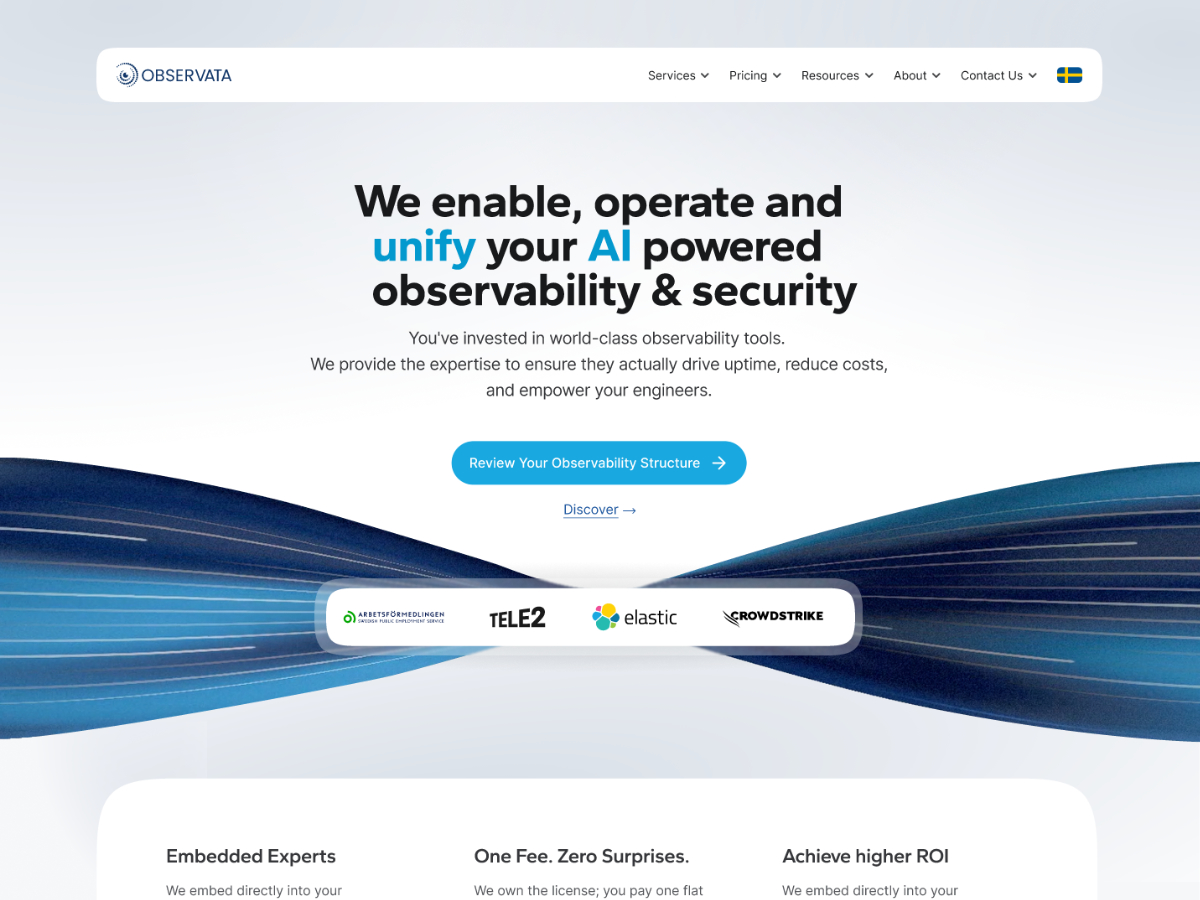
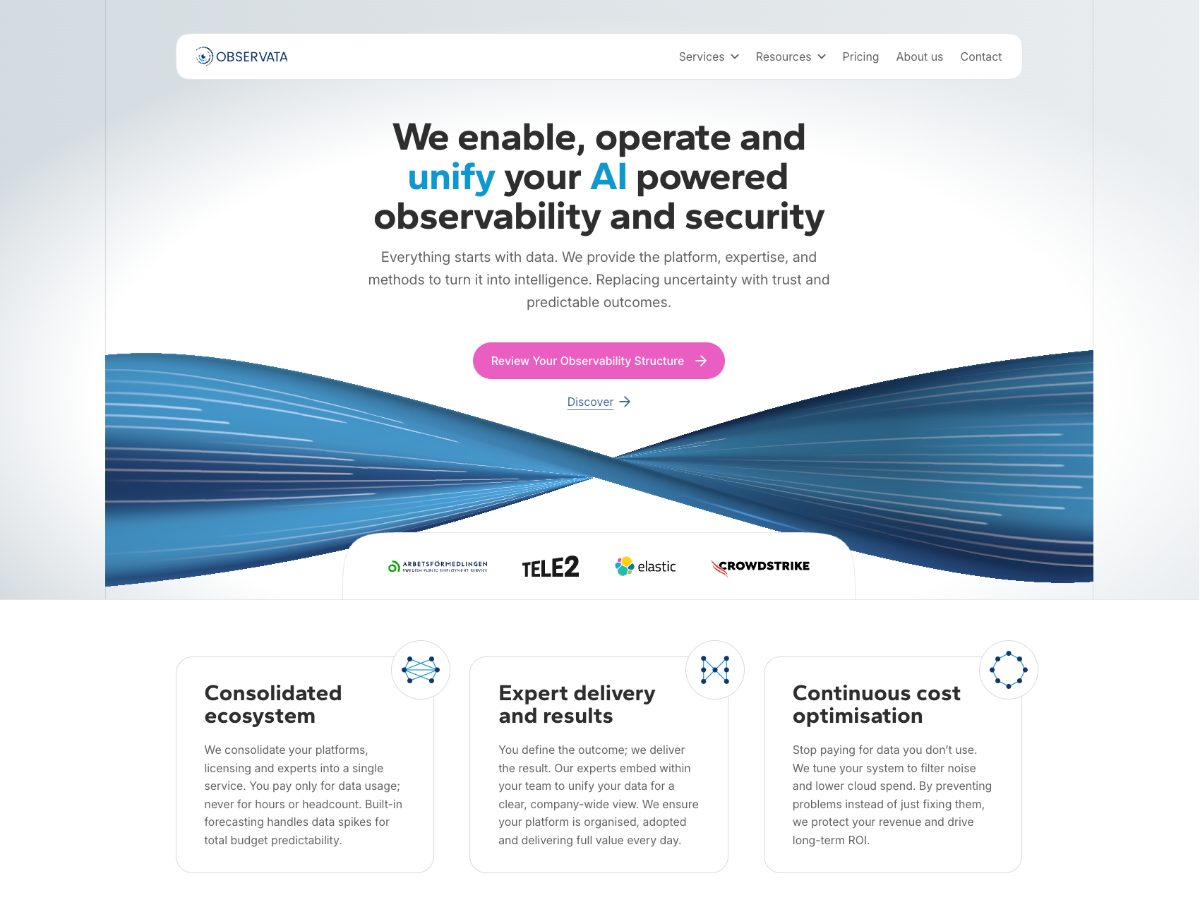
Updating screenshot and readme

diff --git a/README.md b/README.md
@@ -2,6 +2,12 @@
 
 Custom WordPress theme using Gutenberg blocks with Timber/Twig server-side rendering.
 
+![Screenshot](screenshot.jpg)
+
+[![Lint](https://github.com/gotpop/observata/actions/workflows/lint.yml/badge.svg)](https://github.com/gotpop/observata/actions/workflows/lint.yml)
+[![Test](https://github.com/gotpop/observata/actions/workflows/test.yml/badge.svg)](https://github.com/gotpop/observata/actions/workflows/test.yml)
+[![PHPStan](https://github.com/gotpop/observata/actions/workflows/phpstan.yml/badge.svg)](https://github.com/gotpop/observata/actions/workflows/phpstan.yml)
+
 ## Stack
 
 - **Timber 2.x** — Twig templating for PHP
